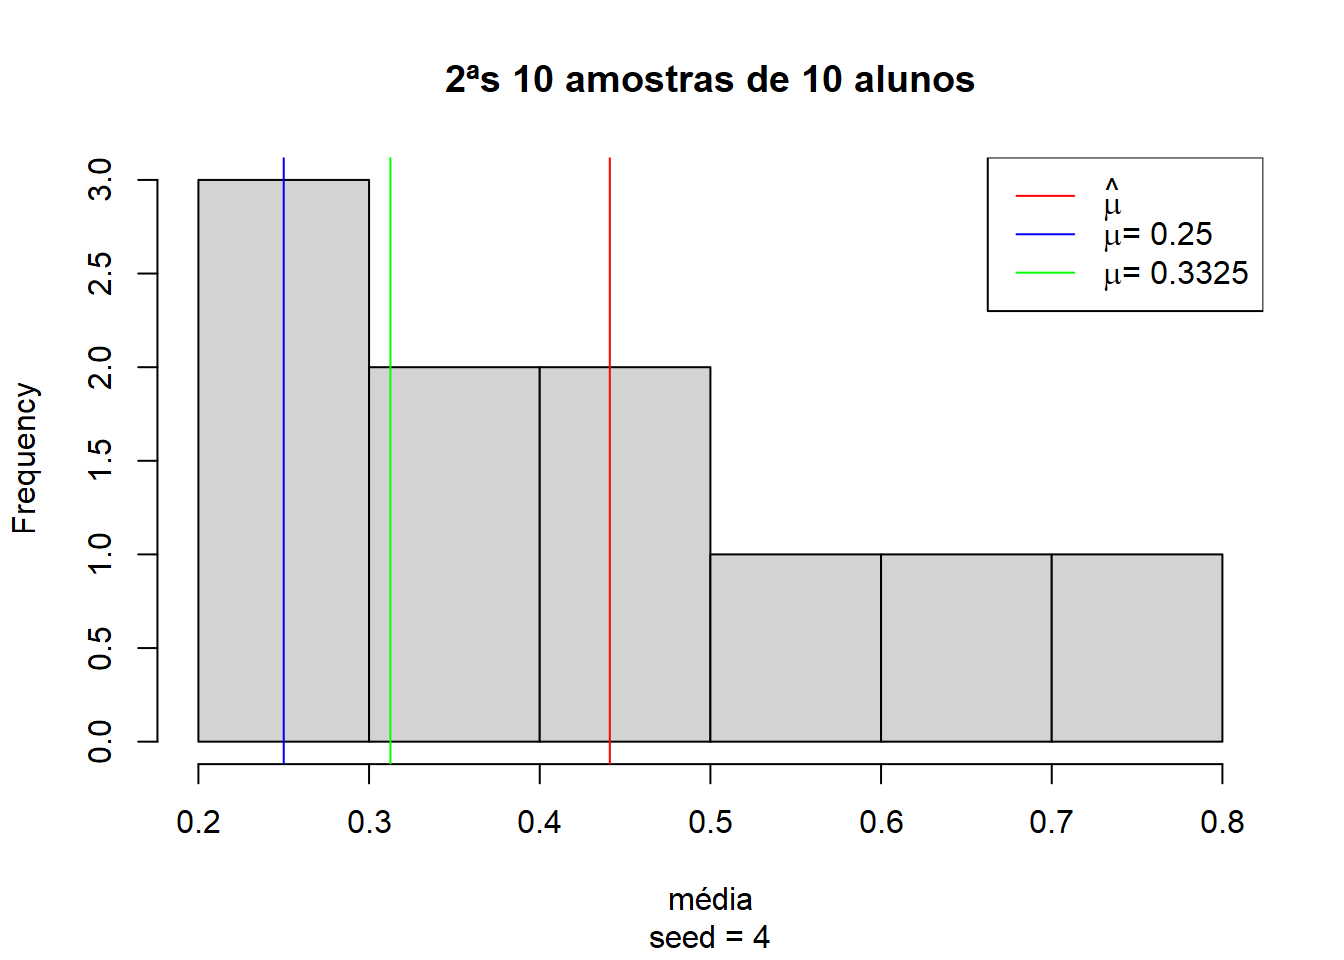
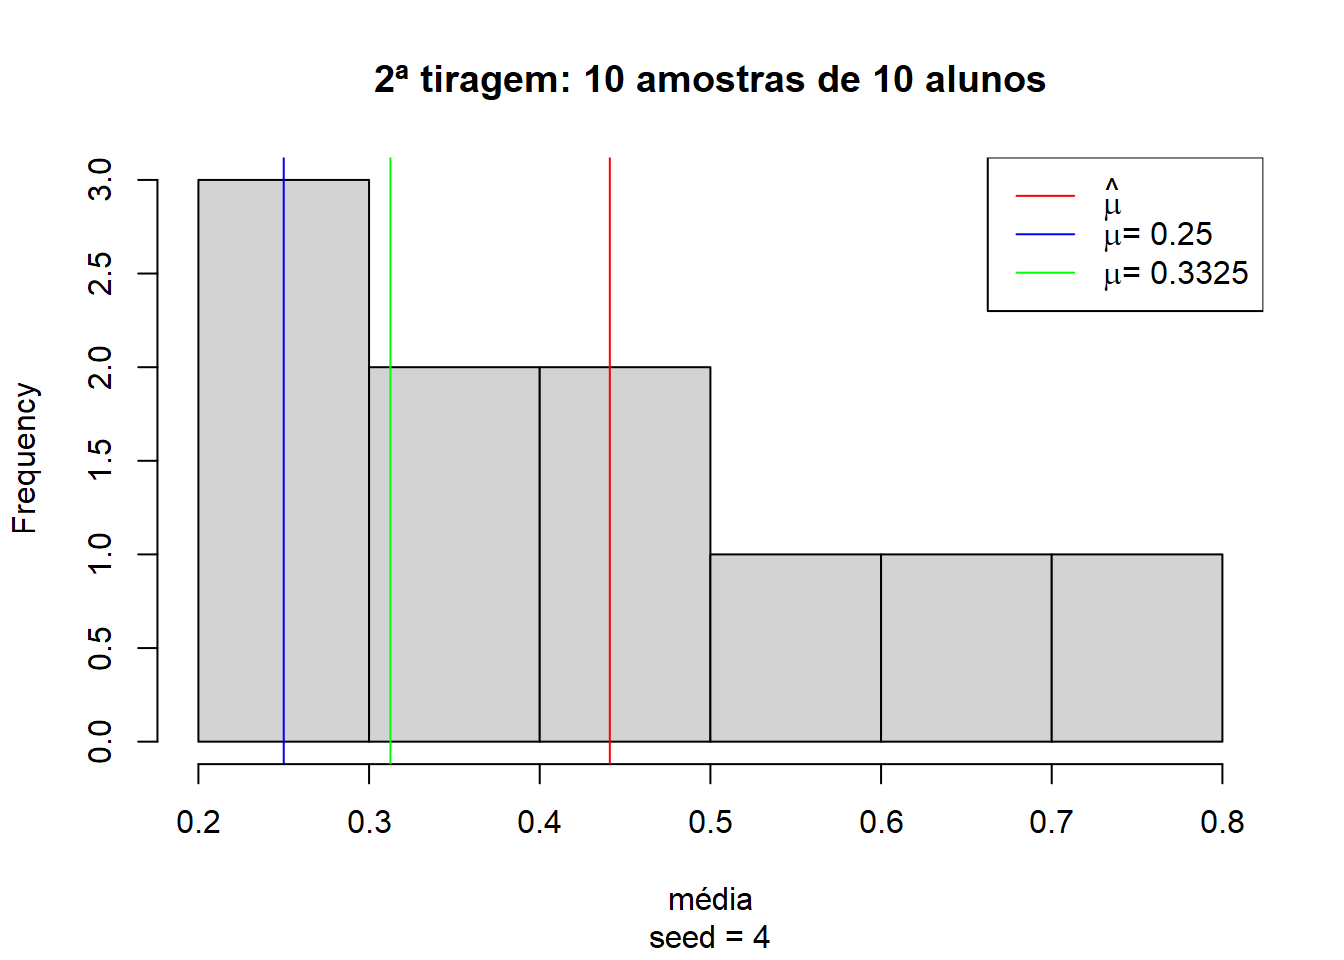
Revisão post teste t para uma amostra.

Changed region(s): [[0.2812, 0.0625, 0.7812, 0.125]]

diff --git a/content/post/2020-11-06-chutou-ou-não-chutou-o-teste-t-para-uma-amostra/index.html b/content/post/2020-11-06-chutou-ou-não-chutou-o-teste-t-para-uma-amostra/index.html
@@ -18,6 +18,8 @@ codeLineNumbers: no
 figurePositionShow: yes
 ---
 
+<link href="index_files/anchor-sections/anchor-sections.css" rel="stylesheet" />
+<script src="index_files/anchor-sections/anchor-sections.js"></script>
 
 
 <p>No <a href="https://datamares.netlify.app/post/atestando-diferencas-em-medias-o-teste-t-para-amostras-independentes/">post anterior</a>, falei sobre o teste t para duas amostras independentes. Coincidentemente, no dia seguinte apareceu <a href="https://forumdematematica.org/viewtopic.php?f=69&amp;t=14319&amp;sid=88c3f5cb4248d2096eb36656bbb95c45">essa dúvida</a> no <a href="https://forumdematematica.org/">fórum de matemática</a> do qual sou contribuidor. Não podemos perder essa oportunidade, não é mesmo?</p>
@@ -32,7 +34,7 @@ ao acaso (ou seja, se todos adivinhassem por pura sorte a resposta correta).</p>
 <p>Realize o teste de hipóteses (seguindo os 5 passos), sabendo-se que de 400 alunos, 125
 responderam corretamente a questão. Use α = 2%.</p>
 </blockquote>
-<p>Acredito que o maior desafio aqui para os alunos iniciantes seja entender o problema e estruturá-lo de uma forma que possa ser respondido com assertividade.A chave está no seguinte trecho:</p>
+<p>Acredito que o maior desafio aqui para os alunos iniciantes seja entender o problema e estruturá-lo de uma forma que possa ser respondido com assertividade. A chave está no seguinte trecho:</p>
 <blockquote>
 <p>do que seria esperado apenas devido
 ao acaso (ou seja, se todos adivinhassem por pura sorte a resposta correta).</p>
@@ -71,18 +73,25 @@ par(mar = c(2,2,0,0))
 barplot(table(data), col = c(&quot;lightblue&quot;, &quot;salmon&quot;))</code></pre>
 <p><img src="index_files/figure-html/unnamed-chunk-1-1.png" width="672" /></p>
 <p>A intuição do teste t é dizer se essa diferença entre os acertos e erros ocorre por mero acaso no processo de amostragem ou não. Mas o que isso significa? Neste caso, a média amostral foi de 31.25% com 400 estudantes. As características da distribuição, o desvio padrão e o tamanho da amostra permitem atestar que a diferença entre a média amostral e a média esperada é significante?</p>
-<p>Para ilustrar o raciocínio, vamos tomar 10 amostras de 10 estudantes aleatoriamente e observar o comportamento das médias. Essas amostras de 10 estudantes pode ter uma média de acertos (linha vermelha) muito próxima dos 25% esperados (linha azul) e longe da média dos 400 alunos (linha verde).</p>
-<pre class="r"><code>set.seed(3)
+<p>Para ilustrar o raciocínio, vamos tomar 10 amostras de 10 estudantes aleatoriamente e observar o comportamento das médias. Essas amostras de 10 estudantes podem ter média de acertos (linha vermelha) muito próxima dos 25% esperados (linha azul) e longe da média dos 400 alunos (linha verde).</p>
+<pre class="r"><code># garantir reprodutibilidade
+set.seed(3)
+
+# quantidade de amostras
 n = 10
+
+# médias
 medias = rep(NA, n)
 
+# tirando amostras e calculando as médias
 for (i in 1:n){
   medias[i] = mean(
     sample(data, size = runif(1, min = 0, max = 10), replace = TRUE))
 }
 
+# visualização
 hist(medias,
-     main = &quot;1ªs 10 amostras de 10 alunos&quot;,
+     main = &quot;1ª tiragem: 10 amostras de 10 alunos&quot;,
      xlab = &quot;média&quot;,
      sub = &quot;seed = 3&quot;)
 abline(v = mean(medias, na.rm = TRUE), col = &quot;red&quot;)
@@ -95,18 +104,25 @@ legend(&quot;topright&quot;, legend = c(
   col = c(&quot;red&quot;, &quot;blue&quot;, &quot;green&quot;),
   lty = 1)</code></pre>
 <p><img src="index_files/figure-html/unnamed-chunk-2-1.png" width="672" /></p>
-<p>Mas também é podemos realizar outra tiragem de 10 amostras com 10 alunos diferentes e encontrarmos uma média completamente diferente, próxima dos 45%:</p>
-<pre class="r"><code>set.seed(4)
+<p>Mas também é possível realizar outra tiragem de 10 amostras com 10 alunos diferentes e encontrarmos uma média completamente diferente, próxima dos 45%:</p>
+<pre class="r"><code># garantir reprodutibilidade
+set.seed(4)
+
+# quantidade de amostras
 n = 10
+
+# médias
 medias = rep(NA, n)
 
+# tirando amostras e calculando as médias
 for (i in 1:n){
   medias[i] = mean(
     sample(data, size = runif(1, min = 0, max = 10), replace = TRUE))
 }
 
+# visualização
 hist(medias,
-     main = &quot;2ªs 10 amostras de 10 alunos&quot;,
+     main = &quot;2ª tiragem: 10 amostras de 10 alunos&quot;,
      xlab = &quot;média&quot;,
      sub = &quot;seed = 4&quot;)
 abline(v = mean(medias, na.rm = TRUE), col = &quot;red&quot;)
@@ -119,12 +135,17 @@ legend(&quot;topright&quot;, legend = c(
   col = c(&quot;red&quot;, &quot;blue&quot;, &quot;green&quot;),
   lty = 1)</code></pre>
 <p><img src="index_files/figure-html/unnamed-chunk-3-1.png" width="672" /></p>
-<p>Conforme vamos aumentando a quantidade de amostras, o desvio padrão se estabiliza e a média amostral vai se aproximando da média populacional:</p>
-<pre class="r"><code># plot com seed = 3 e 50 amostras
+<p>Conforme vamos aumentando a quantidade de amostras, o desvio padrão se estabiliza e a média amostral vai se aproximando da média populacional. Veja as médias de 50 amostras de 10 alunos, cada:</p>
+<pre class="r"><code># garantir reprodutibilidade
 set.seed(3)
+
+# quantidade de amostras
 n = 50
+
+# médias
 medias = rep(NA, n)
 
+# tirando amostras e calculando as médias
 for (i in 1:n){
   medias[i] = mean(
     sample(data, size = runif(1, min = 0, max = 10), replace = TRUE))
@@ -133,27 +154,35 @@ for (i in 1:n){
 # separando o grid em 2 colunas
 par(mfrow = c(1,2))
 
-# primeira amostra
+# visualização 1ª tiragem
 hist(medias,
-     main = &quot;1ªs 50 amostras de 10 alunos&quot;,
+     main = &quot;1ª tiragem: 50 amostras de 10 alunos&quot;,
      xlab = &quot;média&quot;,
      sub = &quot;seed = 3&quot;)
 abline(v = mean(medias, na.rm = TRUE), col = &quot;red&quot;)
 abline(v = 0.25, col = &quot;blue&quot;)
 abline(v = 0.3125, col = &quot;green&quot;)
 
-# plot com seed = 4 e 50 alunos
+################################################################################
+
+# garantir reprodutibilidade
 set.seed(4)
+
+# quantidade de amostras
 n = 50
+
+# médias
 medias = rep(NA, n)
 
+# tirando amostras e calculando as médias
 for (i in 1:n){
   medias[i] = mean(
     sample(data, size = runif(1, min = 0, max = n), replace = TRUE))
 }
 
+# visualização 2ª tiragem
 hist(medias,
-     main = &quot;2ªs 50 amostras de 10 alunos&quot;,
+     main = &quot;2ª tiragem: 50 amostras de 10 alunos&quot;,
      xlab = &quot;média&quot;,
      sub = &quot;seed = 4&quot;)
 abline(v = mean(medias, na.rm = TRUE), col = &quot;red&quot;)
@@ -167,13 +196,18 @@ legend(&quot;topright&quot;, legend = c(
   lty = 1,
   cex = .7)</code></pre>
 <p><img src="index_files/figure-html/unnamed-chunk-4-1.png" width="80%" /></p>
-<p>Pode-se observar que tomando duas tiragens de 50 amostras de 10 alunos aleatoriamente cada, as médias começam a convergir para a média observado no total dos 400 alunos.</p>
+<p>Pode-se observar que tomando duas tiragens de 50 amostras de 10 alunos aleatoriamente cada, as médias começam a convergir para a média observada no total dos 400 alunos.</p>
 <p>E se aumentarmos para 100 amostras de 10 alunos?</p>
-<pre class="r"><code># plot com seed = 3 e 100 alunos
+<pre class="r"><code># garantir reprodutibilidade
 set.seed(3)
+
+# quantidade de amostras
 n = 100
+
+# médias
 medias = rep(NA, n)
 
+# tirando amostras e calculando as médias
 for (i in 1:n){
   medias[i] = mean(
     sample(data, size = runif(1, min = 0, max = 10), replace = TRUE))
@@ -182,26 +216,32 @@ for (i in 1:n){
 # separando o grid em 2 colunas
 par(mfrow = c(1,2))
 
-# plot com seed = 3
+# visualização 1ª tiragem
 hist(medias,
-     main = &quot;1ªs 100 amostras de 10 alunos&quot;,
+     main = &quot;1ª tiragem: 100 amostras de 10 alunos&quot;,
      xlab = &quot;média&quot;,
      sub = &quot;seed = 3&quot;)
 abline(v = mean(medias, na.rm = TRUE), col = &quot;red&quot;)
 abline(v = 0.25, col = &quot;blue&quot;)
 abline(v = 0.3125, col = &quot;green&quot;)
 
-# plot com seed = 4
+################################################################################
+
+# garantir reprodutibilidade
 set.seed(4)
+
+# médias
 medias = rep(NA, n)
 
+# tirando amostras e calculando as médias
 for (i in 1:n){
   medias[i] = mean(
     sample(data, size = runif(1, min = 0, max = 10), replace = TRUE))
 }
 
+# visualização 2ª tiragem
 hist(medias,
-     main = &quot;2ªs 100 amostras de 10 alunos&quot;,
+     main = &quot;2ª tiragem: 100 amostras de 10 alunos&quot;,
      xlab = &quot;média&quot;,
      sub = &quot;seed = 4&quot;)
 abline(v = mean(medias, na.rm = TRUE), col = &quot;red&quot;)
@@ -215,7 +255,7 @@ legend(&quot;topright&quot;, legend = c(
   lty = 1,
   cex = .7)</code></pre>
 <p><img src="index_files/figure-html/unnamed-chunk-5-1.png" width="672" /></p>
-<p>Perceba que com 100 amostras aleatórias, as médias já ficam muito próximas dos 33.25% observados em ambas tiragens. Isso acontece porque conforme o número de observações aumenta, o desvio padrão tende a se estabilizar e a incerteza diminui. Seria muito difícil de os primeiros 400 alunos terem uma determinada média de acertos e os próximos 50 alunos todos acertassem ou errassem de forma a desequilibrar o desvio padrão e afetar a média significativamente. É por isso que, em último caso, <strong>o teste t é um teste de tamanho de amostra</strong>. A pergunta por trás de tudo é: minha amostra é grande o suficiente para que a diferença seja significativa?</p>
+<p>Perceba que com 100 amostras aleatórias, as médias já ficam muito próximas dos 33.25% observados em ambas tiragens. Isso acontece porque conforme o número de observações aumenta, o desvio padrão tende a se estabilizar e a incerteza diminui. Seria muito difícil de os primeiros 400<a href="#fn1" class="footnote-ref" id="fnref1"><sup>1</sup></a> alunos terem uma determinada média de acertos e os próximos 50 alunos todos acertassem ou errassem de forma a gerar mudanças no desvio padrão e afetar a média significativamente. É por isso que, em último caso, <strong>o teste t é um teste de tamanho de amostra</strong>. A pergunta por trás de tudo é: minha amostra é grande o suficiente para que a diferença seja significativa?</p>
 <p>Agora, com a intuição do teste em mente, vamos formalizá-lo.</p>
 </div>
 <div id="o-teste" class="section level1">
@@ -227,12 +267,12 @@ legend(&quot;topright&quot;, legend = c(
       H_0: \mu = 0.25 \\
       H_1: \mu \neq 0.25 \\
     \end{cases}\]</span></p>
-<p>A hipótese nula é que não se pode afirmar que a média de acerto observada é significantemente diferente da média esperada. Já a hipótese alternativa é elas são significativamente distintas.</p>
+<p>A hipótese nula é que não se pode afirmar que a média de acerto observada é significativamente diferente da média esperada. Já a hipótese alternativa é que elas são significativamente distintas.</p>
 </div>
 <div id="declarar-o-nível-de-significância" class="section level2">
 <h2>DECLARAR O NÍVEL DE SIGNIFICÂNCIA</h2>
 <p><span class="math display">\[\alpha = 0.02\]</span>
-O <span class="math inline">\(\alpha = 0.02\)</span> é o que dá sentido ao termo <strong>significantemente diferente</strong>. É a probabilidade de se cometer o erro do tipo II, ou seja, rejeitar a hipótese nula quando não deveria ser rejeitada. Quanto menor o <span class="math inline">\(\alpha\)</span> maior deverá ser a diferença entre as médias para que ela seja considerada significante.</p>
+O <span class="math inline">\(\alpha = 0.02\)</span> é o que dá sentido ao termo <strong>significantemente diferente</strong>. É a probabilidade de se cometer o erro do tipo II, ou seja, rejeitar a hipótese nula quando não deveria ser rejeitada. Quanto menor o <span class="math inline">\(\alpha\)</span>, maior deverá ser a diferença entre as médias para que ela seja considerada significante.</p>
 </div>
 <div id="calcular-a-estatística-do-teste" class="section level2">
 <h2>CALCULAR A ESTATÍSTICA DO TESTE</h2>
@@ -246,7 +286,7 @@ Podemos rejeitar a hipótese nula se <span class="math inline">\(z\)</span> crí
 </div>
 <div id="decidir-se-rejeitamos-a-hipótese-nula" class="section level2">
 <h2>DECIDIR SE REJEITAMOS A HIPÓTESE NULA</h2>
-<p>Como o valor de 2.693 excede o valor de z a 98% de significância (2.33), pode-se rejeitar a hipótese nula. A diferença é estatisticamente significativa e não pode ser atribuída ao acaso de amostragem.</p>
+<p>Como o valor de 2.693 excede o valor de <span class="math inline">\(z\)</span> a 98% de significância (2.33), pode-se rejeitar a hipótese nula. A diferença é significativa e não pode ser atribuída ao acaso de amostragem.</p>
 </div>
 </div>
 <div id="ok-mas-e-no-r" class="section level1">
@@ -294,5 +334,11 @@ Podemos rejeitar a hipótese nula se <span class="math inline">\(z\)</span> crí
 </div>
 <div id="conclusão" class="section level1">
 <h1>CONCLUSÃO</h1>
-<p>Agora que temos todo o instrumental, podemos responder a pergunta do rapaz do fórum. O professor pode ficar orgulhoso, pois podemos rejeitar a hipótese de que a média de acerto de seus alunos foi mero chute. Parabéns à turma! :p</p>
+<p>Agora que temos todo o instrumental, podemos responder a pergunta do rapaz do fórum. O professor, sim, pode ficar orgulhoso, pois podemos rejeitar a hipótese de que a média de acerto de seus alunos foi mero chute. Parabéns à turma! :p</p>
+</div>
+<div class="footnotes">
+<hr />
+<ol>
+<li id="fn1"><p>Ou mil, 10 mil, 100 mil… Quanto maior for <span class="math inline">\(n\)</span>, mais difícil será causar mudanças no desvio padrão, de forma que a incerteza é cada vez menor.<a href="#fnref1" class="footnote-back">↩</a></p></li>
+</ol>
 </div>
